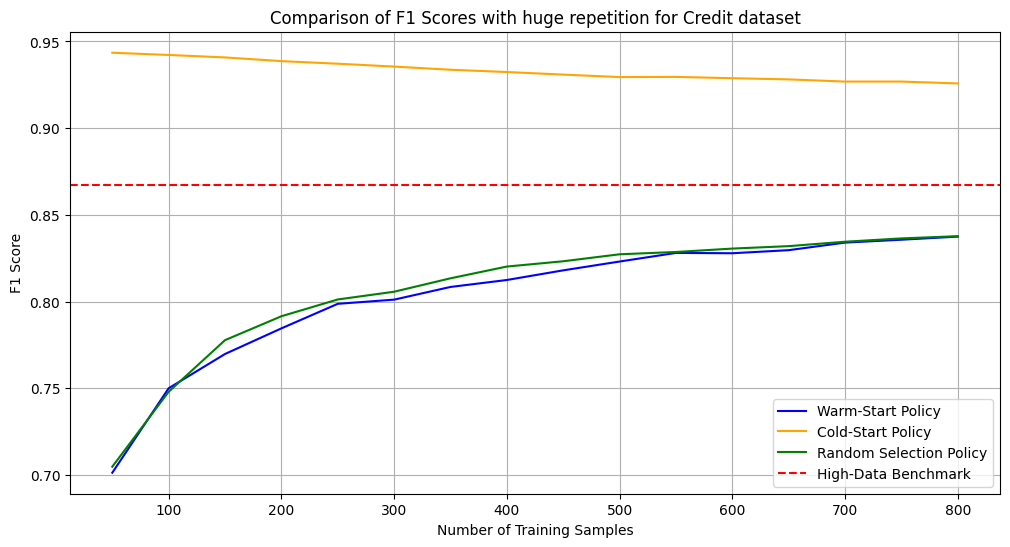
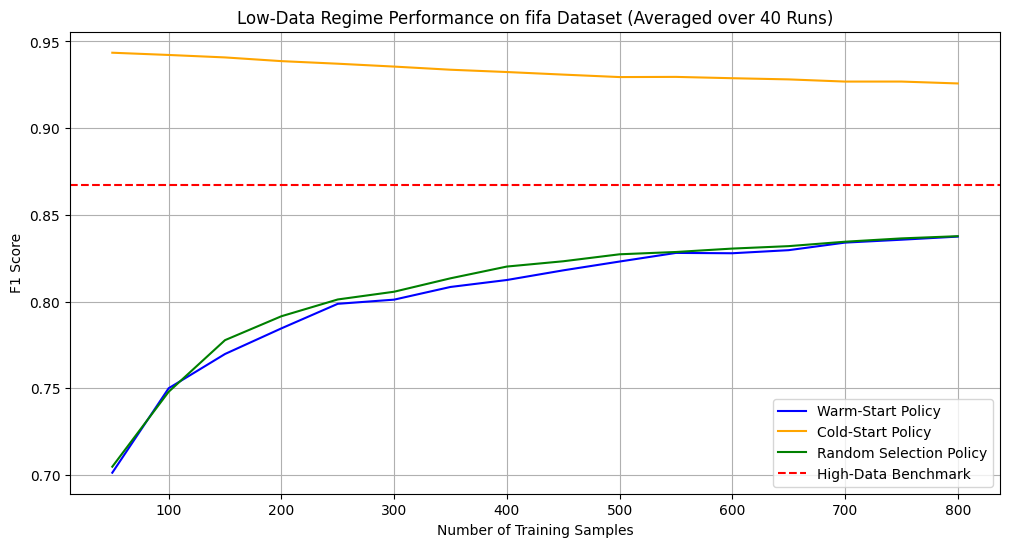
Updated plot images

Changed region(s): [[0.2455, 0.0, 0.8287, 0.0622]]

diff --git a/plot_generator.py b/plot_generator.py
@@ -25,7 +25,7 @@ while True:
     plt.axhline(y = line, color = 'r', linestyle = 'dashed', label='High-Data Benchmark')
     plt.xlabel('Number of Training Samples')
     plt.ylabel('F1 Score')
-    plt.title('Comparison of F1 Scores with huge repetition for Credit dataset')
+    plt.title(F'Low-Data Regime Performance on {path} Dataset (Averaged over 40 Runs)')
     plt.legend()
     plt.grid(True)
     plt.savefig(F'Images/{path}_repeat.png', bbox_inches='tight')
@@ -40,7 +40,7 @@ while True:
     plt.axhline(y = line, color = 'r', linestyle = 'dashed', label='High-Data Benchmark')
     plt.xlabel('Number of Training Samples')
     plt.ylabel('F1 Score')
-    plt.title('Comparison of F1 Scores with wide spectrum for Credit Dataset')
+    plt.title(F'Extended Data Regime Performance on {path} Dataset (up to 10,000 Pairs)')
     plt.legend()
     plt.grid(True)
     plt.savefig(F'Images/{path}_wide.png', bbox_inches='tight')
